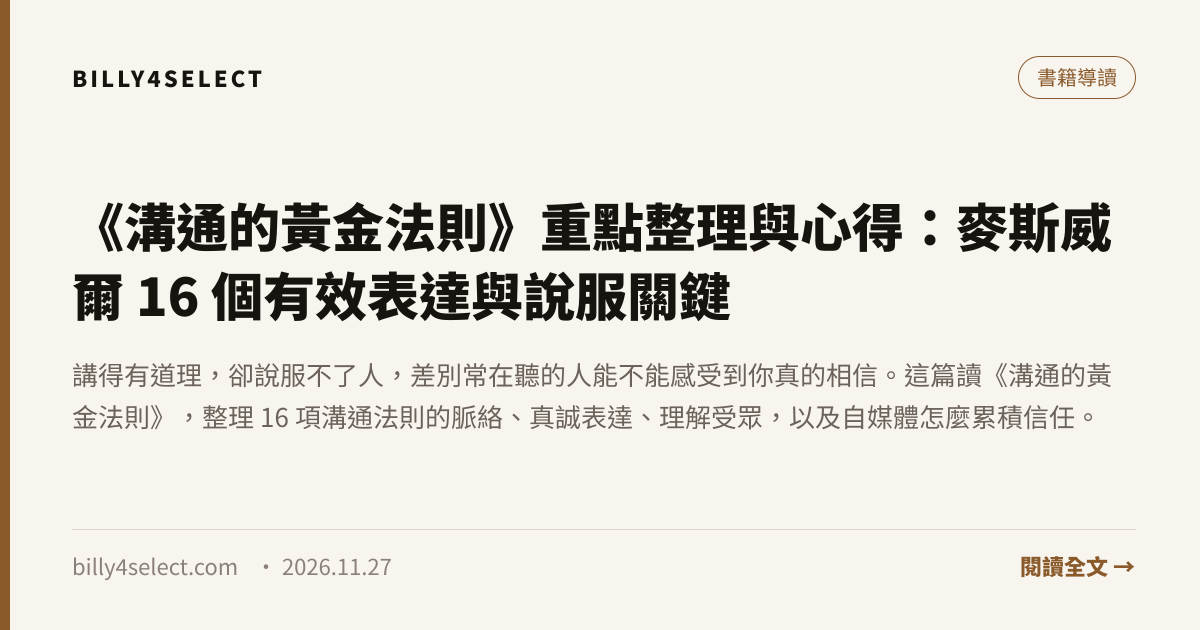
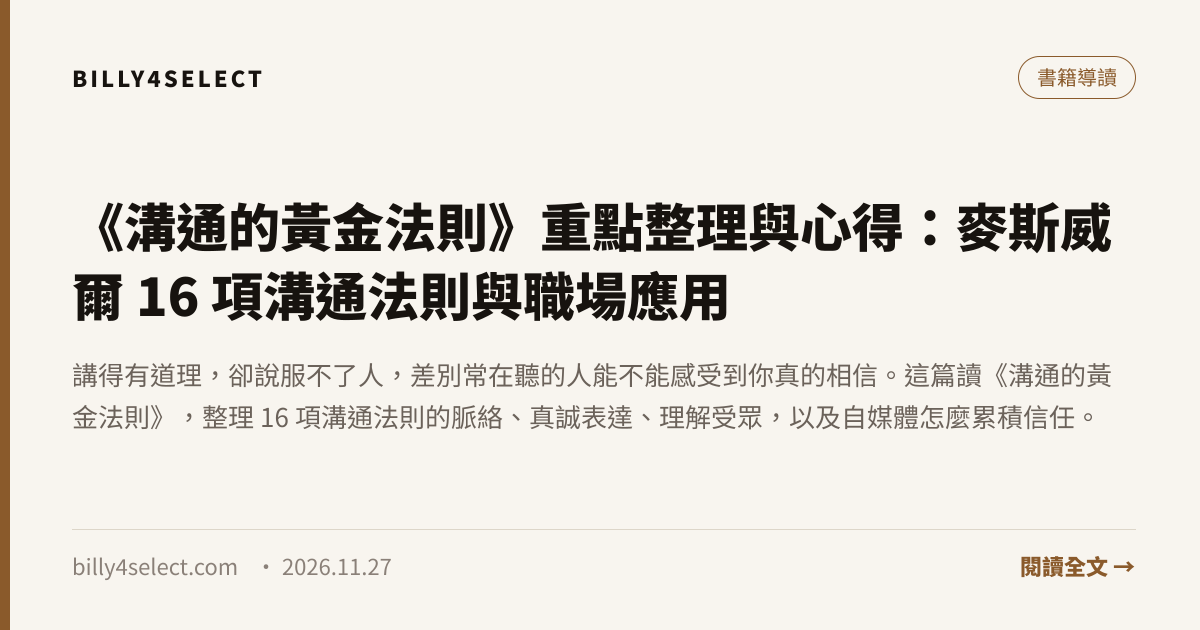
SEO：第五批 16 篇文章標題依 Google 前三名實測改寫

Changed region(s): [[0.1542, 0.4222, 0.4008, 0.5127], [0.4317, 0.4222, 0.6167, 0.5127]]

diff --git a/src/content/blog/expert-secrets-book-notes.md b/src/content/blog/expert-secrets-book-notes.md
@@ -1,5 +1,5 @@
 ---
-title: "《專家機密》重點整理與心得：銷售漏斗、價值階梯與知識變現系統"
+title: "《專家機密》重點整理與心得（Expert Secrets）：銷售漏斗、價值階梯與知識變現"
 description: 有專業、有粉絲、有人稱讚，卻始終沒人付費？問題可能是你還沒設計出從認識你到願意付費的路徑。這篇讀《專家機密》，整理新機會、Big Domino、頓悟橋、銷售漏斗與價值階梯，並談教學型自媒體該保留的判斷。
 publishedDate: 2026-11-28T09:40:00+08:00
 updatedDate: 2026-11-27T00:00:00+08:00

diff --git a/src/content/blog/laws-of-communication-book-notes.md b/src/content/blog/laws-of-communication-book-notes.md
@@ -1,5 +1,5 @@
 ---
-title: "《溝通的黃金法則》重點整理與心得：麥斯威爾 16 個有效表達與說服關鍵"
+title: "《溝通的黃金法則》重點整理與心得：麥斯威爾 16 項溝通法則與職場應用"
 description: 講得有道理，卻說服不了人，差別常在聽的人能不能感受到你真的相信。這篇讀《溝通的黃金法則》，整理 16 項溝通法則的脈絡、真誠表達、理解受眾，以及自媒體怎麼累積信任。
 publishedDate: 2026-11-27T09:20:00+08:00
 updatedDate: 2026-11-27T00:00:00+08:00

diff --git a/src/content/blog/visible-thinking-book-notes.md b/src/content/blog/visible-thinking-book-notes.md
@@ -1,5 +1,5 @@
 ---
-title: "《看得見的高效思考》重點整理與心得：把複雜想法變成好懂表達的視覺化方法"
+title: "《看得見的高效思考》重點整理與心得：劉奕酉教你把想法變成好懂的視覺表達"
 description: 知道很多卻說不清楚，問題常出在還沒把想法整理成觀點。這篇讀《看得見的高效思考》，整理結構化思考、圖文圖表圖解三種視覺化，以及在 AI 時代為什麼更需要。
 publishedDate: 2026-11-26T08:45:00+08:00
 updatedDate: 2026-11-27T00:00:00+08:00

diff --git a/src/content/blog/what-i-didnt-learn-in-business-school.md b/src/content/blog/what-i-didnt-learn-in-business-school.md
@@ -1,5 +1,5 @@
 ---
-title: "《不只是件白襯衫》重點整理與心得：商學院沒教的商業判斷與行銷現實"
+title: "《不只是件白襯衫》重點整理與心得：商學院沒教的策略實戰與行銷判斷"
 description: 策略簡報看起來完整，執行時卻寸步難行。這篇讀《不只是件白襯衫》，從組織與人、數字的假設、五力分析、VRIO、綜效到變革，整理行銷人該補上的三種策略能力。
 publishedDate: 2026-11-26T09:00:00+08:00
 updatedDate: 2026-11-27T00:00:00+08:00

diff --git a/src/content/blog/traffic-pool-book-notes.md b/src/content/blog/traffic-pool-book-notes.md
@@ -1,5 +1,5 @@
 ---
-title: "《流量池》重點整理與心得：獲客、裂變、留存到品牌私域的實戰思維"
+title: "《流量池》重點整理與心得：楊飛談獲客、裂變、留存到品牌私域"
 description: 花錢買來的流量，停了廣告就消失，是不是真的有價值？這篇讀《流量池》，整理流量思維與流量池思維的差別、品牌與裂變、存量找增量，以及自媒體可以怎麼用。
 publishedDate: 2026-11-29T08:30:00+08:00
 updatedDate: 2026-11-27T00:00:00+08:00

diff --git a/src/content/blog/ai-batch-review-analysis.md b/src/content/blog/ai-batch-review-analysis.md
@@ -1,5 +1,5 @@
 ---
-title: AI 批次分析使用者評論：從上百則留言裡，抓出真的值得改的方向
+title: "AI 分析客戶評論與留言：從上百則評論抓出真正值得改的方向"
 description: >-
   官網、蝦皮跟粉專累積了好幾百則買家評論，一則一則看根本看不完？這篇分享用 AI 批次分析評論的四步流程，幫你抓出最痛的客訴跟最能拿來寫文案的真實賣點。
 publishedDate: 2026-10-06T00:00:00Z

diff --git a/src/content/blog/ai-knowledge-capture-meetings-projects.md b/src/content/blog/ai-knowledge-capture-meetings-projects.md
@@ -1,5 +1,5 @@
 ---
-title: 會議與專案資料怎麼沉澱成可用的知識？四欄模板與 AI 整理法
+title: "會議與專案資料怎麼沉澱成知識庫？四欄模板與 AI 整理法"
 description: >-
   每次專案結束，會議紀錄、文件跟客戶問答全沉在資料夾裡再也沒人翻？這篇整理一套用 AI 協助沉澱知識的四欄模板，讓過去的經驗真的能在下個專案直接派上用場。
 publishedDate: 2026-11-20T08:00:00Z

diff --git a/src/content/blog/audience-broad-or-focused.md b/src/content/blog/audience-broad-or-focused.md
@@ -1,5 +1,5 @@
 ---
-title: 受眾要廣泛還是專注？先看市場、差異化與資源
+title: "目標客群要廣還是窄？利基市場 vs 大眾市場，先看市場、差異化與資源"
 description: 受眾定位太廣容易失焦，太窄又可能限制成長。本文從市場需求、競爭差異與團隊資源三個角度，判斷定位應該收斂到哪裡，以及何時適合擴張。
 publishedDate: 2023-04-13T01:00:00Z
 updatedDate: 2026-11-26T02:00:00Z

diff --git a/src/content/blog/ai-project-review-knowledge-base.md b/src/content/blog/ai-project-review-knowledge-base.md
@@ -1,5 +1,5 @@
 ---
-title: AI 協助專案複盤：把結果、原因與下一次的做法分開寫清楚
+title: "AI 專案複盤怎麼做？結果、原因與下次做法分開寫的模板與檢討報告寫法"
 description: >-
   專案結束後的檢討會常常變成互相推託，或是寫完報告就鎖進資料夾？分享用 AI 協助專案複盤的三段結構，把客觀結果、真正原因跟下次調整切開整理。
 publishedDate: 2026-10-06T00:00:00Z

diff --git a/src/content/blog/how-ai-changes-cost-and-competition.md b/src/content/blog/how-ai-changes-cost-and-competition.md
@@ -1,5 +1,5 @@
 ---
-title: AI 正在改變哪些成本與競爭優勢？
+title: "AI 改變商業模式：哪些成本與競爭優勢正在改變？中小企業怎麼看"
 description: AI 不是一個新工具，而是一組成本曲線的移動：內容變便宜、協調變快、驗證變貴。這篇用成本與競爭優勢兩個角度，說明企業應該把資源移到哪裡。
 publishedDate: 2026-11-20T19:00:00Z
 author: 比利陳 Billy Chen

diff --git a/src/content/blog/claude-objection-simulation.md b/src/content/blog/claude-objection-simulation.md
@@ -1,5 +1,5 @@
 ---
-title: 客戶簡報前，用 Claude 跑一遍「反對意見模擬」實戰流程
+title: "Claude 簡報演練：提案前用「反對意見模擬」壓力測試客戶簡報"
 description: >-
   簡報做得很滿意，上場卻被客戶或老闆兩個問題直接問倒？分享我在重要提案前一定會跑的 Claude 反對意見模擬流程，提前把提案漏洞找出來補好。
 publishedDate: 2026-04-15T14:22:10Z

diff --git a/src/content/blog/turn-expertise-into-market-value.md b/src/content/blog/turn-expertise-into-market-value.md
@@ -1,6 +1,6 @@
 ---
 
-title: "如何把專業變成市場價值？從能力盤點到具體服務"
+title: "專業變現怎麼開始？把工作專長包裝成市場價值與具體服務"
 description: "有專業不代表市場自然知道如何購買。要讓能力形成收入，需要找到具體需求、說清楚交付成果，並確認客戶願意為此付出成本。"
 publishedDate: 2026-11-20T21:00:00Z
 updatedDate: 2026-11-26T09:00:00Z
